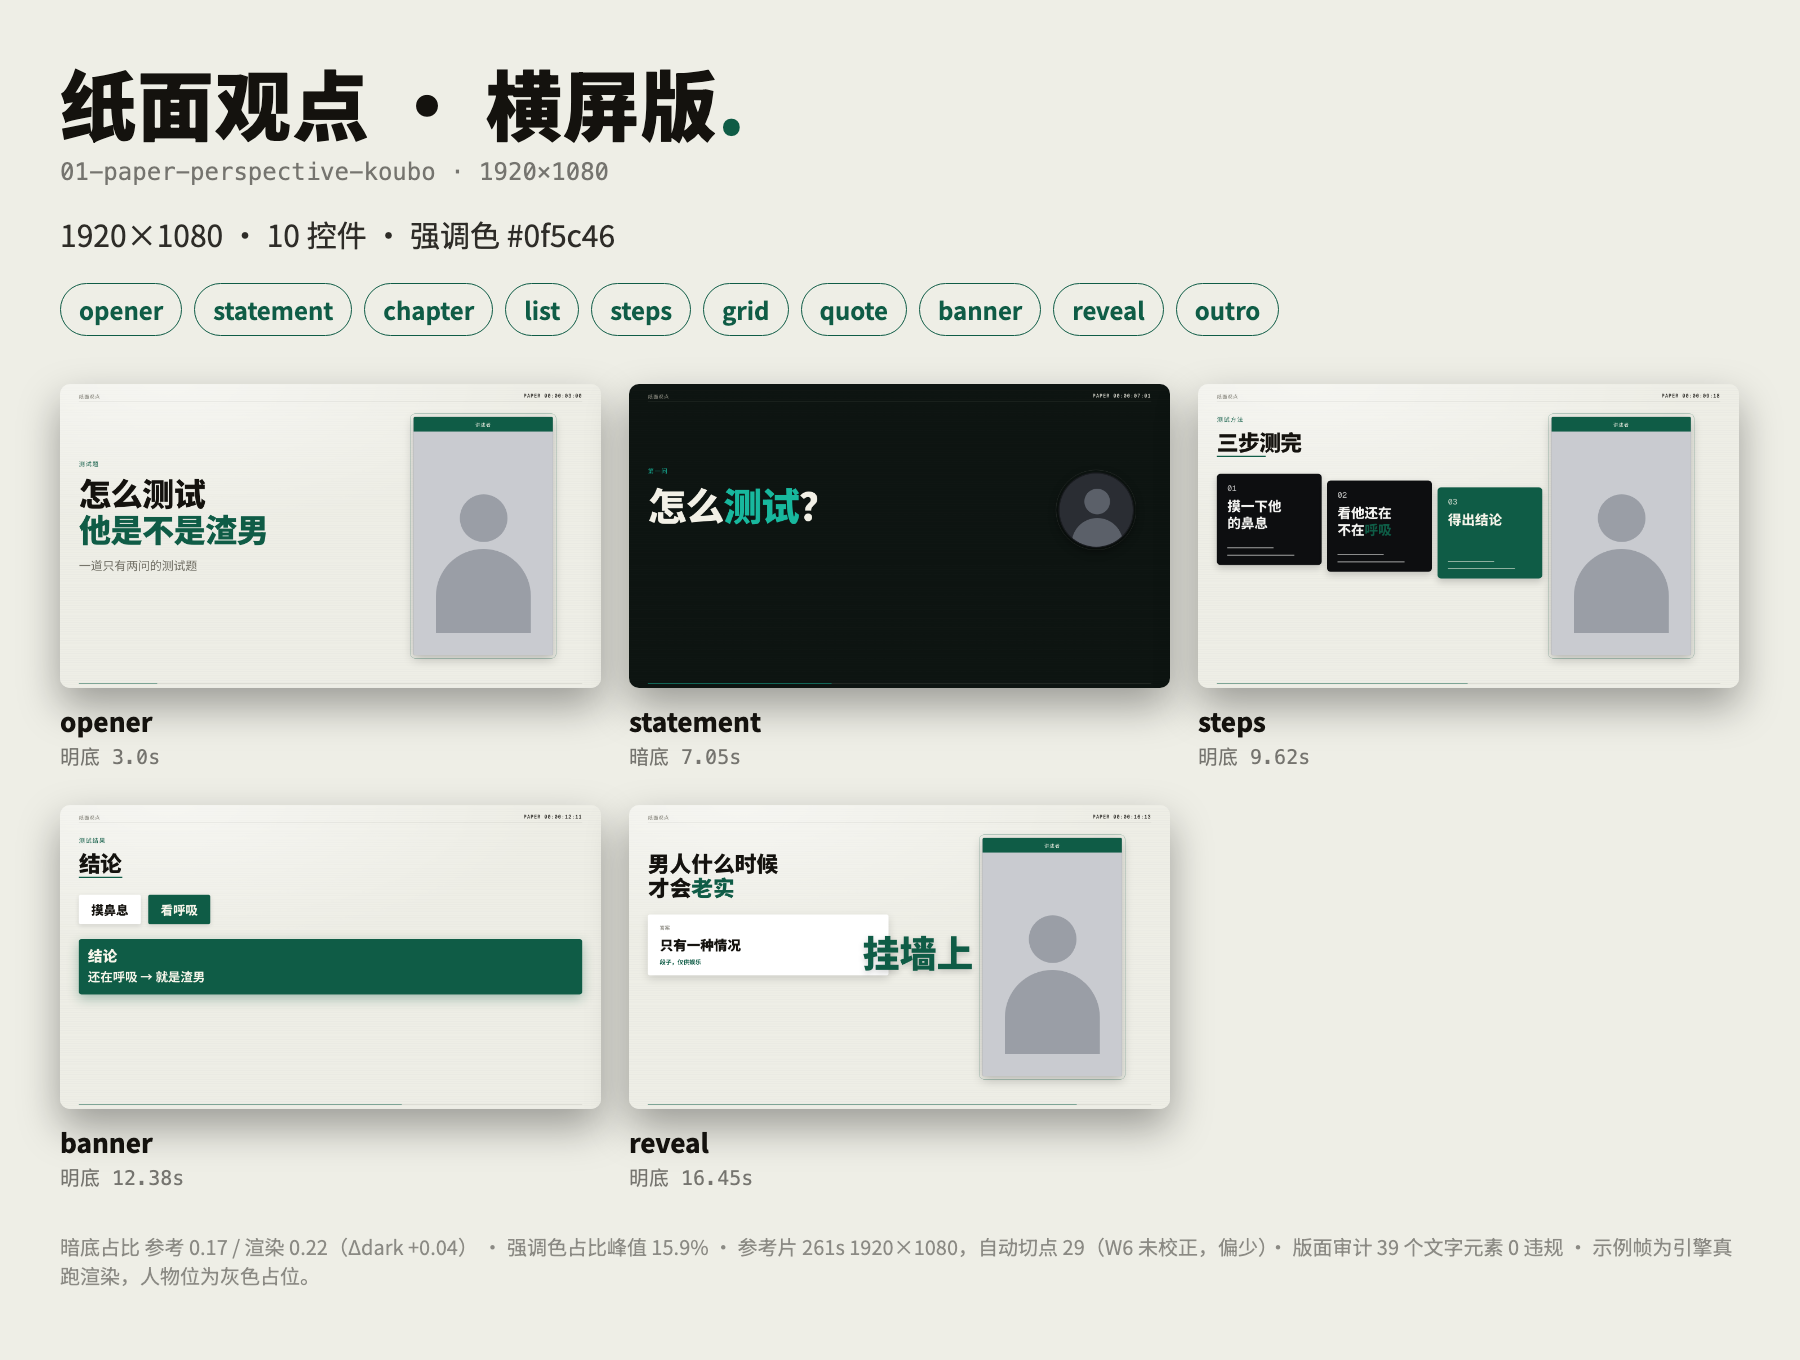
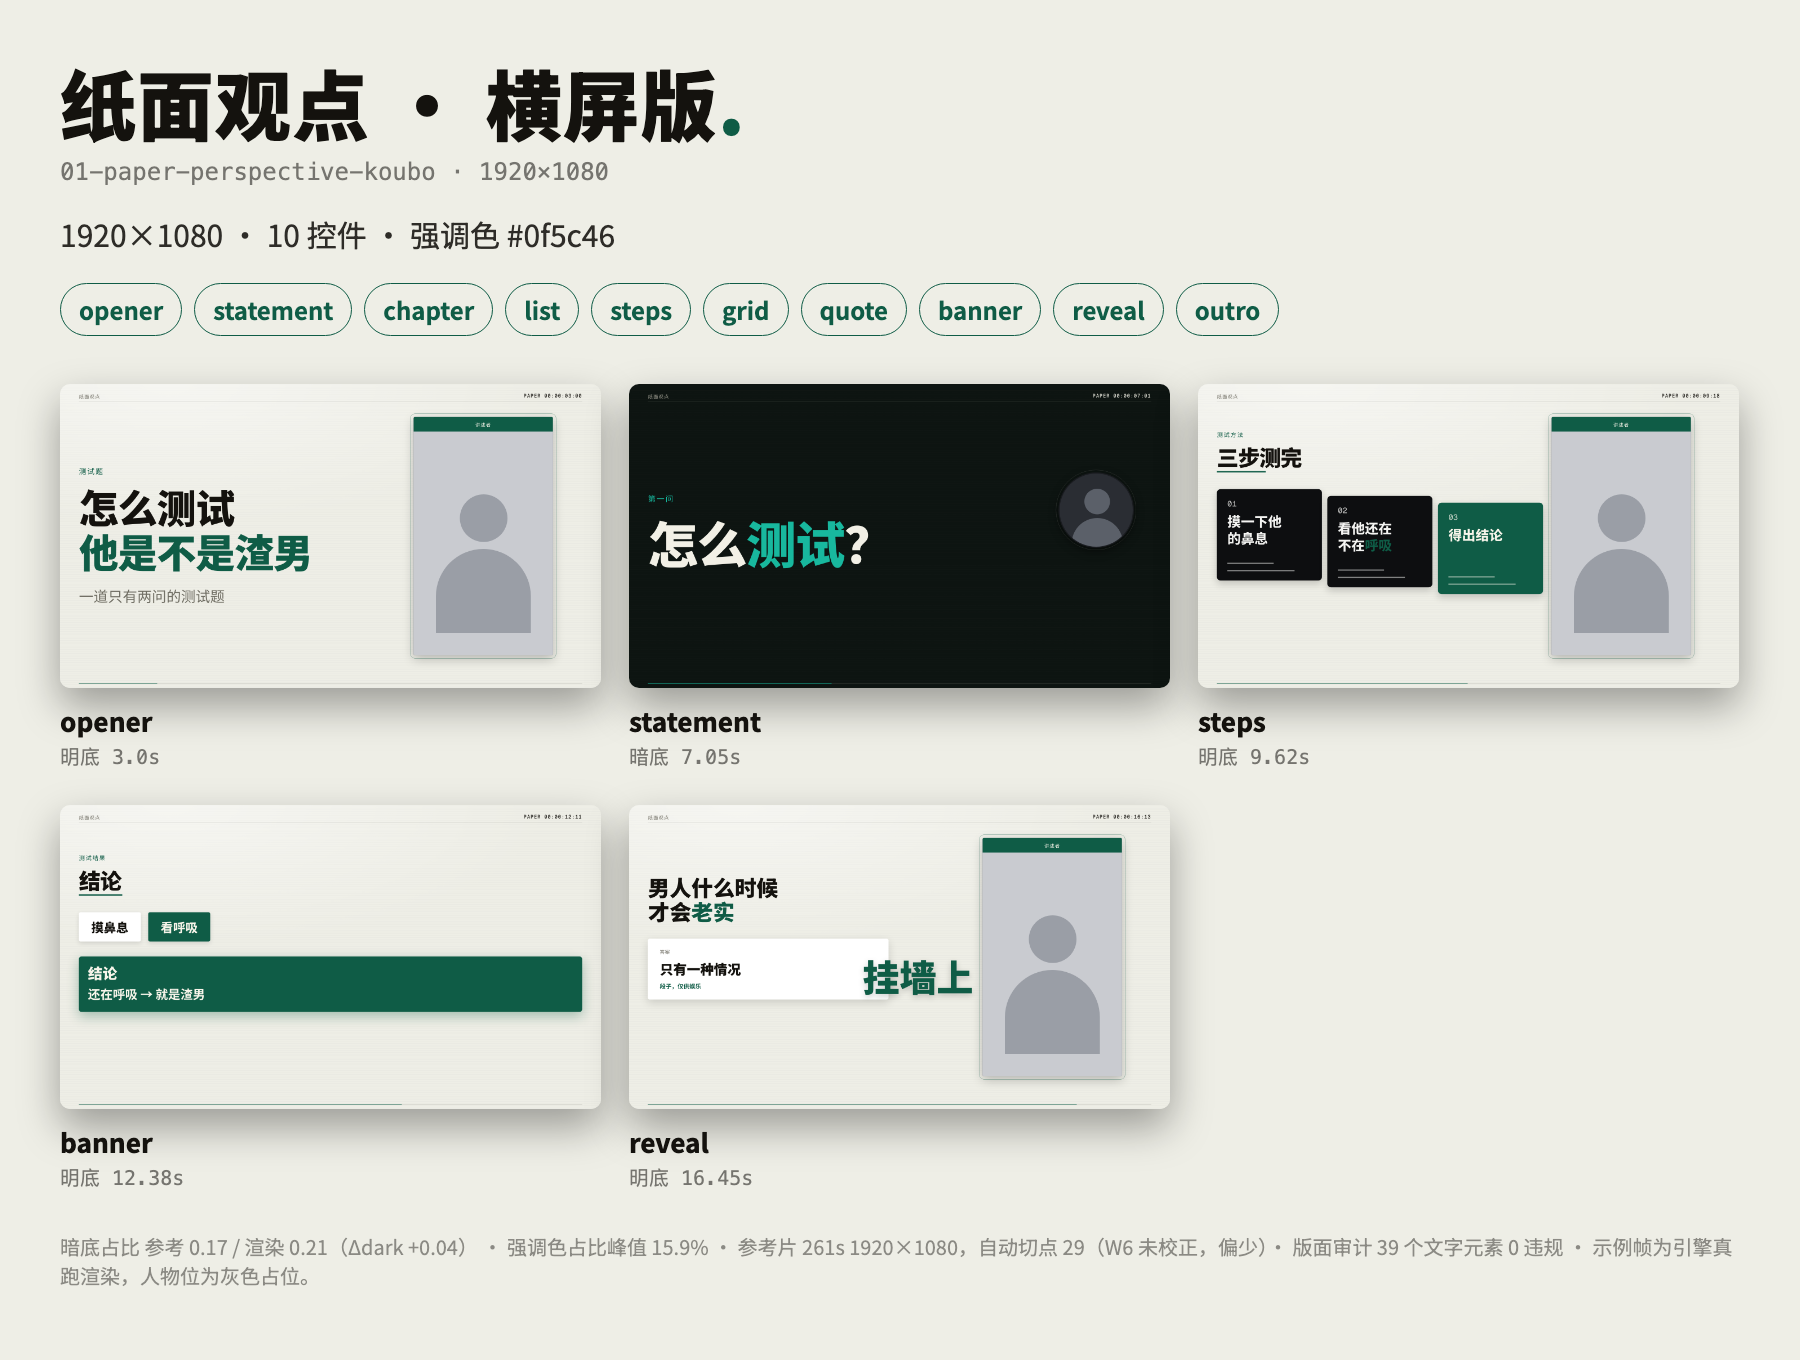
构图层 compose：更新 01–04 与仓库说明

diff --git a/skills/01-paper-perspective-koubo/scripts/engine/stage/runtime.js b/skills/01-paper-perspective-koubo/scripts/engine/stage/runtime.js
@@ -924,6 +924,53 @@
     };
   };
 
+  // ---------- 构图（compose）：内容块整体放大并在可用区内纵向居中 ----------
+  // 控件各自按「顶部锚定」排版，内容少时下半屏会空。这里在终态量出内容块外框，
+  // 以外框左上角为原点等比放大（上限 layout.composeMax，默认 1.3），再在 [原顶边, SAFE] 内按 42% 视觉重心下移。
+  // 候选从大到小试：放大后任何元素碰到人物框 / HUD / 版心右界 / 字幕安全线就降一档，全不行则保持原样。
+  // 只依赖终态几何，与 t 无关：renderAt 仍是 t 与 DATA 的纯函数。
+  function compose(content, root, mode) {
+    const stage = $('stage'), sr = stage.getBoundingClientRect();
+    [...content.querySelectorAll('.foot')].forEach(f => root.appendChild(f));   // 页脚固定在安全线下，不参与构图
+    const rects = [];
+    const push = b => { if (b.width > 0.5 && b.height > 0.5) rects.push({ l: b.left - sr.left, t: b.top - sr.top, r: b.right - sr.left, b: b.bottom - sr.top }); };
+    content.querySelectorAll('*').forEach(e => {
+      if (e.closest('.qmark')) return;
+      const cs = getComputedStyle(e);
+      if (cs.display === 'none' || cs.visibility === 'hidden') return;
+      const tag = e.tagName.toLowerCase();
+      if ([...e.childNodes].some(n => n.nodeType === 3 && n.textContent.trim())) {
+        const rg = document.createRange(); rg.selectNodeContents(e); [...rg.getClientRects()].forEach(push);
+      } else if (tag === 'img' || tag === 'svg' || tag === 'canvas' || cs.backgroundImage !== 'none'
+        || !/rgba\(0, 0, 0, 0\)|transparent/.test(cs.backgroundColor) || parseFloat(cs.borderTopWidth) > 0) {
+        if (!e.closest('svg') || tag === 'svg') push(e.getBoundingClientRect());
+      }
+    });
+    if (!rects.length) return;
+    const B = { l: Math.min(...rects.map(q => q.l)), t: Math.min(...rects.map(q => q.t)), r: Math.max(...rects.map(q => q.r)), b: Math.max(...rects.map(q => q.b)) };
+    const bw = B.r - B.l, bh = B.b - B.t, room = SAFE - B.t;
+    if (bw < 1 || bh < 1 || B.b > SAFE) return;
+    const hit = (a, o) => Math.min(a.r, o.r) - Math.max(a.l, o.l) > 1 && Math.min(a.b, o.b) - Math.max(a.t, o.t) > 1;
+    const pad = R(0.028, MIN), g = frameGeo(mode);
+    let obs = [];
+    if (g) obs.push({ l: g.x - pad, t: g.y - pad, r: g.x + g.w + pad, b: g.y + g.h + pad });
+    root.querySelectorAll('.hud').forEach(h => { const b = h.getBoundingClientRect(); if (b.width > 0.5 && b.height > 0.5) obs.push({ l: b.left - sr.left, t: b.top - sr.top, r: b.right - sr.left, b: b.bottom - sr.top }); });
+    obs = obs.filter(o => !rects.some(q => hit(q, o)));   // 原样就相交的（控件自己安排的贴靠）不算障碍
+    const K = LY.composeY ?? 0.42;
+    const smax = Math.max(1, Math.min(LY.compose === 'center' ? 1 : (LY.composeMax ?? 1.3), (RT - B.l) / bw, room * 0.9 / bh));
+    for (let s = smax; s >= 1 - 1e-6; s = s > 1 ? Math.max(1, s - 0.05) : 0) {
+      const slack = room - bh * s;
+      for (const ty of [slack * K, slack * K * 0.5, 0]) {
+        const tr = q => ({ l: B.l + (q.l - B.l) * s, r: B.l + (q.r - B.l) * s, t: B.t + (q.t - B.t) * s + ty, b: B.t + (q.b - B.t) * s + ty });
+        if (rects.some(q => { const z = tr(q); return z.r > RT + 1 || z.b > SAFE + 1 || obs.some(o => hit(z, o)); })) continue;
+        if (s === 1 && ty === 0) return;
+        content.style.transformOrigin = `${B.l}px ${B.t}px`;
+        content.style.transform = `translateY(${Math.round(ty)}px) scale(${s.toFixed(4)})`;
+        return;
+      }
+    }
+  }
+
   // ---------- 装配 ----------
   // 入场时长：镜头的 72%，且不超过 2.4s（长镜头不再把入场拖满整镜）
   const ENTER_MAX = MO.enterMax ?? 2.4;
@@ -957,8 +1004,13 @@
     const u = clamp(local / Math.max(dur, .001));
     const ue = clamp(local / Math.max(.001, Math.min(dur * 0.72, ENTER_MAX)));
     hud(root, ctx, theme)(ue);
-    const draw = ctrl(root, sh.props || {}, ctx);
-    if (draw) draw(ue);
+    // 控件画在 content 包裹层里：先按终态（u=1）量出内容块，再整体放大 / 纵向居中（compose），最后按当前时刻绘制
+    const content = el(root, 'abs content', { left: '0', top: '0', width: '100%', height: '100%' });
+    const draw = ctrl(content, sh.props || {}, ctx);
+    if (draw) {
+      if ((LY.compose ?? 'fill') !== 'off' && sh.control !== 'split') { draw(1); compose(content, root, sh.presenter || 'none'); }
+      draw(ue);
+    }
     // 收尾淡出（最后 0.18s）
     if (dur - local < 0.18) root.style.opacity = clamp((dur - local) / 0.18);
     void u;

diff --git a/skills/02-tech-console-koubo/scripts/engine/stage/runtime.js b/skills/02-tech-console-koubo/scripts/engine/stage/runtime.js
@@ -924,6 +924,53 @@
     };
   };
 
+  // ---------- 构图（compose）：内容块整体放大并在可用区内纵向居中 ----------
+  // 控件各自按「顶部锚定」排版，内容少时下半屏会空。这里在终态量出内容块外框，
+  // 以外框左上角为原点等比放大（上限 layout.composeMax，默认 1.3），再在 [原顶边, SAFE] 内按 42% 视觉重心下移。
+  // 候选从大到小试：放大后任何元素碰到人物框 / HUD / 版心右界 / 字幕安全线就降一档，全不行则保持原样。
+  // 只依赖终态几何，与 t 无关：renderAt 仍是 t 与 DATA 的纯函数。
+  function compose(content, root, mode) {
+    const stage = $('stage'), sr = stage.getBoundingClientRect();
+    [...content.querySelectorAll('.foot')].forEach(f => root.appendChild(f));   // 页脚固定在安全线下，不参与构图
+    const rects = [];
+    const push = b => { if (b.width > 0.5 && b.height > 0.5) rects.push({ l: b.left - sr.left, t: b.top - sr.top, r: b.right - sr.left, b: b.bottom - sr.top }); };
+    content.querySelectorAll('*').forEach(e => {
+      if (e.closest('.qmark')) return;
+      const cs = getComputedStyle(e);
+      if (cs.display === 'none' || cs.visibility === 'hidden') return;
+      const tag = e.tagName.toLowerCase();
+      if ([...e.childNodes].some(n => n.nodeType === 3 && n.textContent.trim())) {
+        const rg = document.createRange(); rg.selectNodeContents(e); [...rg.getClientRects()].forEach(push);
+      } else if (tag === 'img' || tag === 'svg' || tag === 'canvas' || cs.backgroundImage !== 'none'
+        || !/rgba\(0, 0, 0, 0\)|transparent/.test(cs.backgroundColor) || parseFloat(cs.borderTopWidth) > 0) {
+        if (!e.closest('svg') || tag === 'svg') push(e.getBoundingClientRect());
+      }
+    });
+    if (!rects.length) return;
+    const B = { l: Math.min(...rects.map(q => q.l)), t: Math.min(...rects.map(q => q.t)), r: Math.max(...rects.map(q => q.r)), b: Math.max(...rects.map(q => q.b)) };
+    const bw = B.r - B.l, bh = B.b - B.t, room = SAFE - B.t;
+    if (bw < 1 || bh < 1 || B.b > SAFE) return;
+    const hit = (a, o) => Math.min(a.r, o.r) - Math.max(a.l, o.l) > 1 && Math.min(a.b, o.b) - Math.max(a.t, o.t) > 1;
+    const pad = R(0.028, MIN), g = frameGeo(mode);
+    let obs = [];
+    if (g) obs.push({ l: g.x - pad, t: g.y - pad, r: g.x + g.w + pad, b: g.y + g.h + pad });
+    root.querySelectorAll('.hud').forEach(h => { const b = h.getBoundingClientRect(); if (b.width > 0.5 && b.height > 0.5) obs.push({ l: b.left - sr.left, t: b.top - sr.top, r: b.right - sr.left, b: b.bottom - sr.top }); });
+    obs = obs.filter(o => !rects.some(q => hit(q, o)));   // 原样就相交的（控件自己安排的贴靠）不算障碍
+    const K = LY.composeY ?? 0.42;
+    const smax = Math.max(1, Math.min(LY.compose === 'center' ? 1 : (LY.composeMax ?? 1.3), (RT - B.l) / bw, room * 0.9 / bh));
+    for (let s = smax; s >= 1 - 1e-6; s = s > 1 ? Math.max(1, s - 0.05) : 0) {
+      const slack = room - bh * s;
+      for (const ty of [slack * K, slack * K * 0.5, 0]) {
+        const tr = q => ({ l: B.l + (q.l - B.l) * s, r: B.l + (q.r - B.l) * s, t: B.t + (q.t - B.t) * s + ty, b: B.t + (q.b - B.t) * s + ty });
+        if (rects.some(q => { const z = tr(q); return z.r > RT + 1 || z.b > SAFE + 1 || obs.some(o => hit(z, o)); })) continue;
+        if (s === 1 && ty === 0) return;
+        content.style.transformOrigin = `${B.l}px ${B.t}px`;
+        content.style.transform = `translateY(${Math.round(ty)}px) scale(${s.toFixed(4)})`;
+        return;
+      }
+    }
+  }
+
   // ---------- 装配 ----------
   // 入场时长：镜头的 72%，且不超过 2.4s（长镜头不再把入场拖满整镜）
   const ENTER_MAX = MO.enterMax ?? 2.4;
@@ -957,8 +1004,13 @@
     const u = clamp(local / Math.max(dur, .001));
     const ue = clamp(local / Math.max(.001, Math.min(dur * 0.72, ENTER_MAX)));
     hud(root, ctx, theme)(ue);
-    const draw = ctrl(root, sh.props || {}, ctx);
-    if (draw) draw(ue);
+    // 控件画在 content 包裹层里：先按终态（u=1）量出内容块，再整体放大 / 纵向居中（compose），最后按当前时刻绘制
+    const content = el(root, 'abs content', { left: '0', top: '0', width: '100%', height: '100%' });
+    const draw = ctrl(content, sh.props || {}, ctx);
+    if (draw) {
+      if ((LY.compose ?? 'fill') !== 'off' && sh.control !== 'split') { draw(1); compose(content, root, sh.presenter || 'none'); }
+      draw(ue);
+    }
     // 收尾淡出（最后 0.18s）
     if (dur - local < 0.18) root.style.opacity = clamp((dur - local) / 0.18);
     void u;

diff --git a/skills/03-modern-editorial-koubo/scripts/engine/stage/runtime.js b/skills/03-modern-editorial-koubo/scripts/engine/stage/runtime.js
@@ -924,6 +924,53 @@
     };
   };
 
+  // ---------- 构图（compose）：内容块整体放大并在可用区内纵向居中 ----------
+  // 控件各自按「顶部锚定」排版，内容少时下半屏会空。这里在终态量出内容块外框，
+  // 以外框左上角为原点等比放大（上限 layout.composeMax，默认 1.3），再在 [原顶边, SAFE] 内按 42% 视觉重心下移。
+  // 候选从大到小试：放大后任何元素碰到人物框 / HUD / 版心右界 / 字幕安全线就降一档，全不行则保持原样。
+  // 只依赖终态几何，与 t 无关：renderAt 仍是 t 与 DATA 的纯函数。
+  function compose(content, root, mode) {
+    const stage = $('stage'), sr = stage.getBoundingClientRect();
+    [...content.querySelectorAll('.foot')].forEach(f => root.appendChild(f));   // 页脚固定在安全线下，不参与构图
+    const rects = [];
+    const push = b => { if (b.width > 0.5 && b.height > 0.5) rects.push({ l: b.left - sr.left, t: b.top - sr.top, r: b.right - sr.left, b: b.bottom - sr.top }); };
+    content.querySelectorAll('*').forEach(e => {
+      if (e.closest('.qmark')) return;
+      const cs = getComputedStyle(e);
+      if (cs.display === 'none' || cs.visibility === 'hidden') return;
+      const tag = e.tagName.toLowerCase();
+      if ([...e.childNodes].some(n => n.nodeType === 3 && n.textContent.trim())) {
+        const rg = document.createRange(); rg.selectNodeContents(e); [...rg.getClientRects()].forEach(push);
+      } else if (tag === 'img' || tag === 'svg' || tag === 'canvas' || cs.backgroundImage !== 'none'
+        || !/rgba\(0, 0, 0, 0\)|transparent/.test(cs.backgroundColor) || parseFloat(cs.borderTopWidth) > 0) {
+        if (!e.closest('svg') || tag === 'svg') push(e.getBoundingClientRect());
+      }
+    });
+    if (!rects.length) return;
+    const B = { l: Math.min(...rects.map(q => q.l)), t: Math.min(...rects.map(q => q.t)), r: Math.max(...rects.map(q => q.r)), b: Math.max(...rects.map(q => q.b)) };
+    const bw = B.r - B.l, bh = B.b - B.t, room = SAFE - B.t;
+    if (bw < 1 || bh < 1 || B.b > SAFE) return;
+    const hit = (a, o) => Math.min(a.r, o.r) - Math.max(a.l, o.l) > 1 && Math.min(a.b, o.b) - Math.max(a.t, o.t) > 1;
+    const pad = R(0.028, MIN), g = frameGeo(mode);
+    let obs = [];
+    if (g) obs.push({ l: g.x - pad, t: g.y - pad, r: g.x + g.w + pad, b: g.y + g.h + pad });
+    root.querySelectorAll('.hud').forEach(h => { const b = h.getBoundingClientRect(); if (b.width > 0.5 && b.height > 0.5) obs.push({ l: b.left - sr.left, t: b.top - sr.top, r: b.right - sr.left, b: b.bottom - sr.top }); });
+    obs = obs.filter(o => !rects.some(q => hit(q, o)));   // 原样就相交的（控件自己安排的贴靠）不算障碍
+    const K = LY.composeY ?? 0.42;
+    const smax = Math.max(1, Math.min(LY.compose === 'center' ? 1 : (LY.composeMax ?? 1.3), (RT - B.l) / bw, room * 0.9 / bh));
+    for (let s = smax; s >= 1 - 1e-6; s = s > 1 ? Math.max(1, s - 0.05) : 0) {
+      const slack = room - bh * s;
+      for (const ty of [slack * K, slack * K * 0.5, 0]) {
+        const tr = q => ({ l: B.l + (q.l - B.l) * s, r: B.l + (q.r - B.l) * s, t: B.t + (q.t - B.t) * s + ty, b: B.t + (q.b - B.t) * s + ty });
+        if (rects.some(q => { const z = tr(q); return z.r > RT + 1 || z.b > SAFE + 1 || obs.some(o => hit(z, o)); })) continue;
+        if (s === 1 && ty === 0) return;
+        content.style.transformOrigin = `${B.l}px ${B.t}px`;
+        content.style.transform = `translateY(${Math.round(ty)}px) scale(${s.toFixed(4)})`;
+        return;
+      }
+    }
+  }
+
   // ---------- 装配 ----------
   // 入场时长：镜头的 72%，且不超过 2.4s（长镜头不再把入场拖满整镜）
   const ENTER_MAX = MO.enterMax ?? 2.4;
@@ -957,8 +1004,13 @@
     const u = clamp(local / Math.max(dur, .001));
     const ue = clamp(local / Math.max(.001, Math.min(dur * 0.72, ENTER_MAX)));
     hud(root, ctx, theme)(ue);
-    const draw = ctrl(root, sh.props || {}, ctx);
-    if (draw) draw(ue);
+    // 控件画在 content 包裹层里：先按终态（u=1）量出内容块，再整体放大 / 纵向居中（compose），最后按当前时刻绘制
+    const content = el(root, 'abs content', { left: '0', top: '0', width: '100%', height: '100%' });
+    const draw = ctrl(content, sh.props || {}, ctx);
+    if (draw) {
+      if ((LY.compose ?? 'fill') !== 'off' && sh.control !== 'split') { draw(1); compose(content, root, sh.presenter || 'none'); }
+      draw(ue);
+    }
     // 收尾淡出（最后 0.18s）
     if (dur - local < 0.18) root.style.opacity = clamp((dur - local) / 0.18);
     void u;

diff --git a/skills/04-kinetic-tech-koubo/scripts/engine/stage/runtime.js b/skills/04-kinetic-tech-koubo/scripts/engine/stage/runtime.js
@@ -924,6 +924,53 @@
     };
   };
 
+  // ---------- 构图（compose）：内容块整体放大并在可用区内纵向居中 ----------
+  // 控件各自按「顶部锚定」排版，内容少时下半屏会空。这里在终态量出内容块外框，
+  // 以外框左上角为原点等比放大（上限 layout.composeMax，默认 1.3），再在 [原顶边, SAFE] 内按 42% 视觉重心下移。
+  // 候选从大到小试：放大后任何元素碰到人物框 / HUD / 版心右界 / 字幕安全线就降一档，全不行则保持原样。
+  // 只依赖终态几何，与 t 无关：renderAt 仍是 t 与 DATA 的纯函数。
+  function compose(content, root, mode) {
+    const stage = $('stage'), sr = stage.getBoundingClientRect();
+    [...content.querySelectorAll('.foot')].forEach(f => root.appendChild(f));   // 页脚固定在安全线下，不参与构图
+    const rects = [];
+    const push = b => { if (b.width > 0.5 && b.height > 0.5) rects.push({ l: b.left - sr.left, t: b.top - sr.top, r: b.right - sr.left, b: b.bottom - sr.top }); };
+    content.querySelectorAll('*').forEach(e => {
+      if (e.closest('.qmark')) return;
+      const cs = getComputedStyle(e);
+      if (cs.display === 'none' || cs.visibility === 'hidden') return;
+      const tag = e.tagName.toLowerCase();
+      if ([...e.childNodes].some(n => n.nodeType === 3 && n.textContent.trim())) {
+        const rg = document.createRange(); rg.selectNodeContents(e); [...rg.getClientRects()].forEach(push);
+      } else if (tag === 'img' || tag === 'svg' || tag === 'canvas' || cs.backgroundImage !== 'none'
+        || !/rgba\(0, 0, 0, 0\)|transparent/.test(cs.backgroundColor) || parseFloat(cs.borderTopWidth) > 0) {
+        if (!e.closest('svg') || tag === 'svg') push(e.getBoundingClientRect());
+      }
+    });
+    if (!rects.length) return;
+    const B = { l: Math.min(...rects.map(q => q.l)), t: Math.min(...rects.map(q => q.t)), r: Math.max(...rects.map(q => q.r)), b: Math.max(...rects.map(q => q.b)) };
+    const bw = B.r - B.l, bh = B.b - B.t, room = SAFE - B.t;
+    if (bw < 1 || bh < 1 || B.b > SAFE) return;
+    const hit = (a, o) => Math.min(a.r, o.r) - Math.max(a.l, o.l) > 1 && Math.min(a.b, o.b) - Math.max(a.t, o.t) > 1;
+    const pad = R(0.028, MIN), g = frameGeo(mode);
+    let obs = [];
+    if (g) obs.push({ l: g.x - pad, t: g.y - pad, r: g.x + g.w + pad, b: g.y + g.h + pad });
+    root.querySelectorAll('.hud').forEach(h => { const b = h.getBoundingClientRect(); if (b.width > 0.5 && b.height > 0.5) obs.push({ l: b.left - sr.left, t: b.top - sr.top, r: b.right - sr.left, b: b.bottom - sr.top }); });
+    obs = obs.filter(o => !rects.some(q => hit(q, o)));   // 原样就相交的（控件自己安排的贴靠）不算障碍
+    const K = LY.composeY ?? 0.42;
+    const smax = Math.max(1, Math.min(LY.compose === 'center' ? 1 : (LY.composeMax ?? 1.3), (RT - B.l) / bw, room * 0.9 / bh));
+    for (let s = smax; s >= 1 - 1e-6; s = s > 1 ? Math.max(1, s - 0.05) : 0) {
+      const slack = room - bh * s;
+      for (const ty of [slack * K, slack * K * 0.5, 0]) {
+        const tr = q => ({ l: B.l + (q.l - B.l) * s, r: B.l + (q.r - B.l) * s, t: B.t + (q.t - B.t) * s + ty, b: B.t + (q.b - B.t) * s + ty });
+        if (rects.some(q => { const z = tr(q); return z.r > RT + 1 || z.b > SAFE + 1 || obs.some(o => hit(z, o)); })) continue;
+        if (s === 1 && ty === 0) return;
+        content.style.transformOrigin = `${B.l}px ${B.t}px`;
+        content.style.transform = `translateY(${Math.round(ty)}px) scale(${s.toFixed(4)})`;
+        return;
+      }
+    }
+  }
+
   // ---------- 装配 ----------
   // 入场时长：镜头的 72%，且不超过 2.4s（长镜头不再把入场拖满整镜）
   const ENTER_MAX = MO.enterMax ?? 2.4;
@@ -957,8 +1004,13 @@
     const u = clamp(local / Math.max(dur, .001));
     const ue = clamp(local / Math.max(.001, Math.min(dur * 0.72, ENTER_MAX)));
     hud(root, ctx, theme)(ue);
-    const draw = ctrl(root, sh.props || {}, ctx);
-    if (draw) draw(ue);
+    // 控件画在 content 包裹层里：先按终态（u=1）量出内容块，再整体放大 / 纵向居中（compose），最后按当前时刻绘制
+    const content = el(root, 'abs content', { left: '0', top: '0', width: '100%', height: '100%' });
+    const draw = ctrl(content, sh.props || {}, ctx);
+    if (draw) {
+      if ((LY.compose ?? 'fill') !== 'off' && sh.control !== 'split') { draw(1); compose(content, root, sh.presenter || 'none'); }
+      draw(ue);
+    }
     // 收尾淡出（最后 0.18s）
     if (dur - local < 0.18) root.style.opacity = clamp((dur - local) / 0.18);
     void u;
